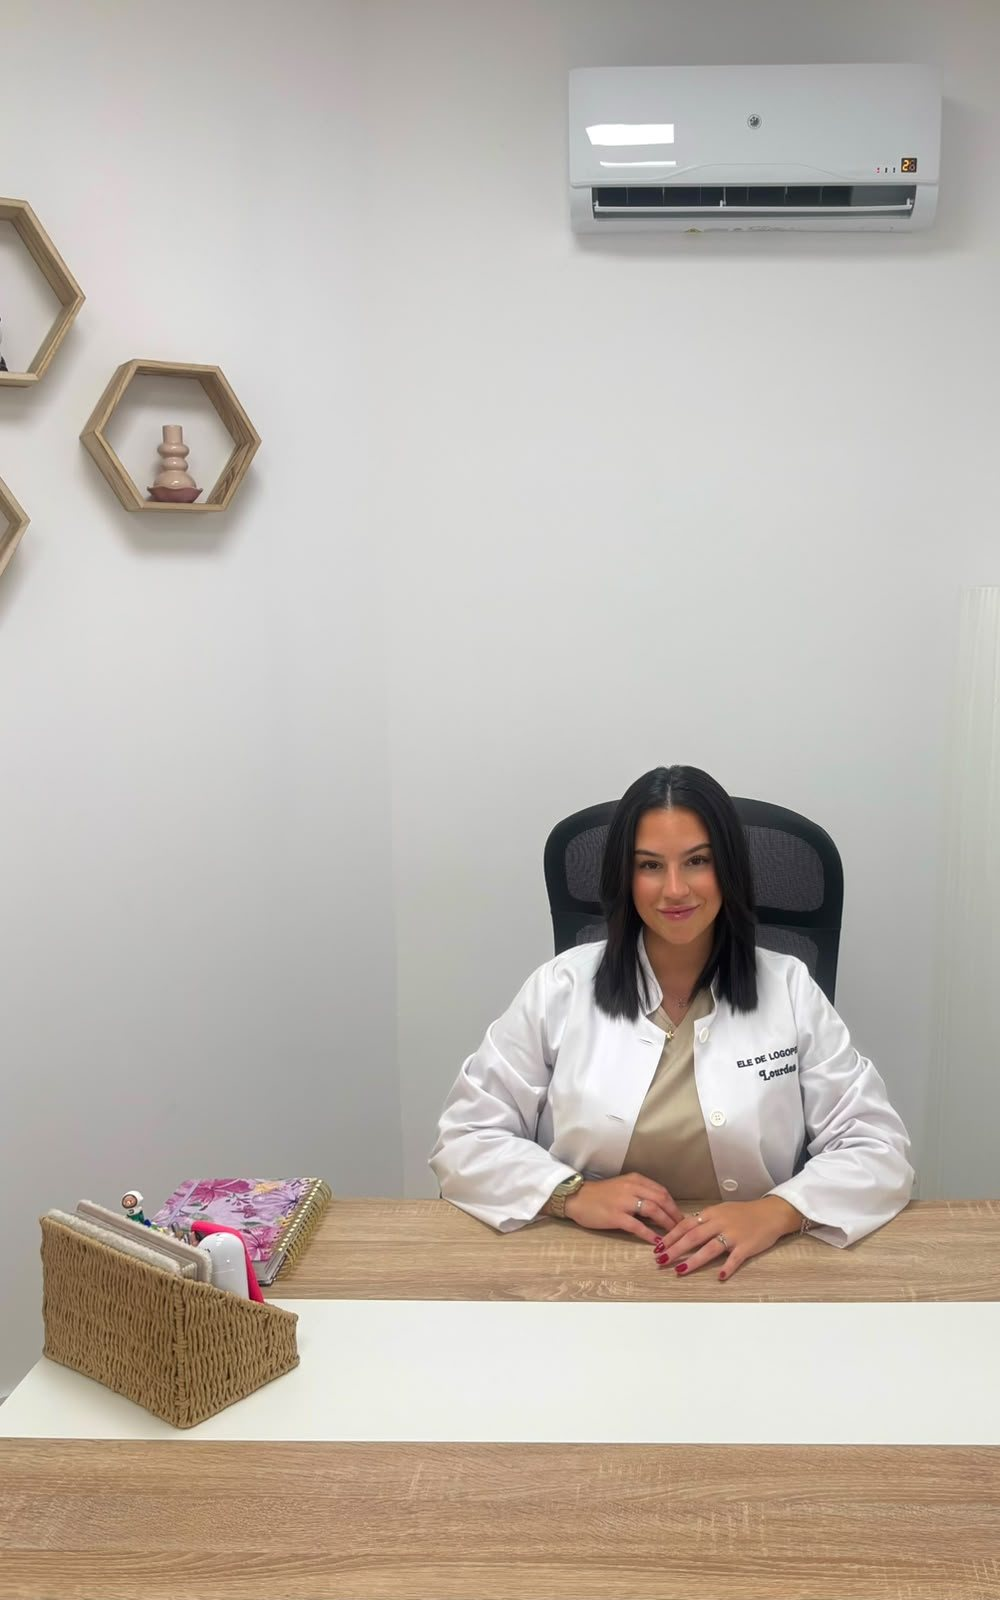
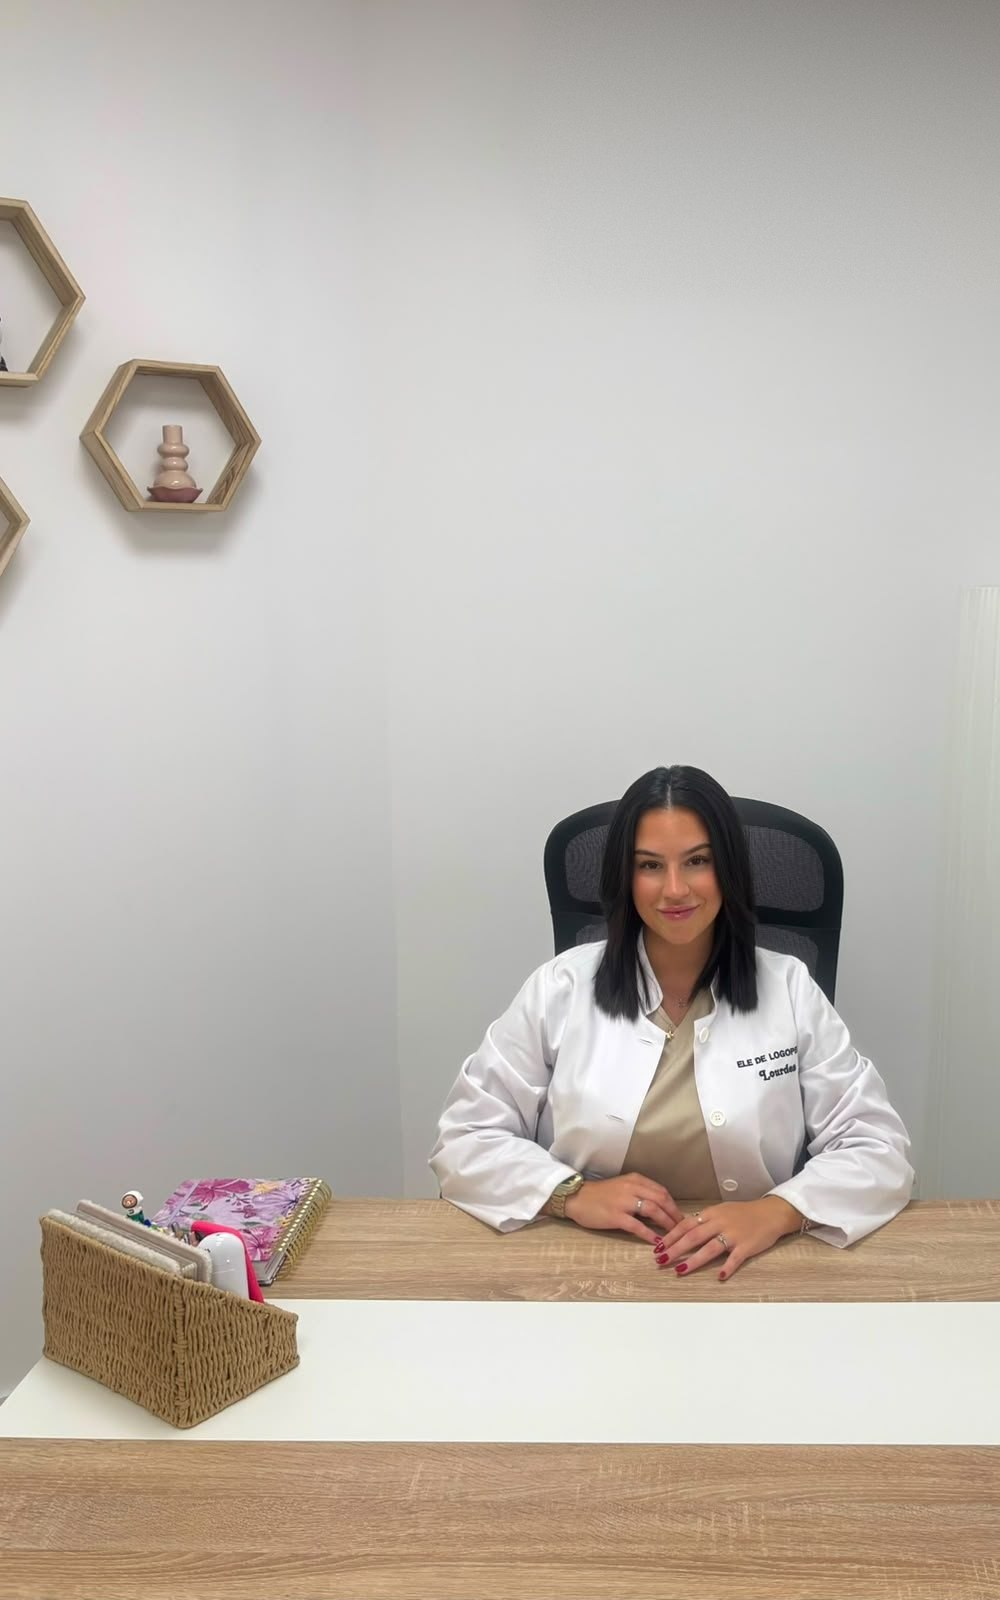
Quitar el aire acondicionado de la foto del hero
El aparato ocupaba la parte alta derecha de la pared en la fotografia
principal. Se ha borrado reconstruyendo la pared.

Metodo: se ajusta por minimos cuadrados una superficie cuadratica al
degradado real de la pared de alrededor y se continua por debajo del
aparato, con grano de la misma desviacion tipica que el resto de la
foto. El error del modelo frente a la pared real es de +-4 niveles
sobre 255.

El original sin retocar y el script quedan en img/, que no entra en el
repositorio. Documentado en PENDIENTE.md.

Changed region(s): [[0.558, 0.0625, 0.961, 0.1875]]

diff --git a/PENDIENTE.md b/PENDIENTE.md
@@ -55,6 +55,31 @@ Si en algún momento se consigue una **fotografía apaisada** del gabinete,
 el hero ganaría bastante: se vería la composición completa en lugar de una
 banda recortada.
 
+### El hero está retocado: se quitó el aire acondicionado
+
+La fotografía original tenía el **aparato de aire acondicionado** en la
+pared, arriba a la derecha (x 590-938, y 63-210, más su sombra hasta
+y≈260). Se ha borrado y reconstruido la pared.
+
+Cómo se hizo, por si alguna vez hay que repetirlo o revertirlo:
+
+- Se ajustó por mínimos cuadrados una **superficie cuadrática** al
+  degradado real de la pared de alrededor (la pared se aclara hacia abajo
+  y se oscurece hacia la derecha) y se continuó esa superficie por debajo
+  del aparato. El error del modelo frente a la pared real es de ±4
+  niveles sobre 255, así que el relleno es indistinguible.
+- Se añadió grano con la misma desviación típica medida en la pared
+  (σ≈2). Sin grano, una zona perfectamente lisa en medio de una foto con
+  ruido de sensor canta a distancia.
+- La zona repintada llega hasta el borde superior y el derecho de la
+  foto. Es deliberado: al dejarla corta, el fundido dejaba pasar el canto
+  del aparato y asomaba como una sombra vertical.
+
+**El original sin retocar está guardado** en `img/hero-sin-retocar.jpg`,
+junto con el script que hizo el trabajo (`img/quitar-aire.ps1`). Esa
+carpeta no se publica ni entra en el repositorio, así que ambos viven
+solo en el disco de la clienta.
+
 ### Galería "Conócenos" — ✅ montada
 
 Las nueve fotografías restantes de `img/` están en
